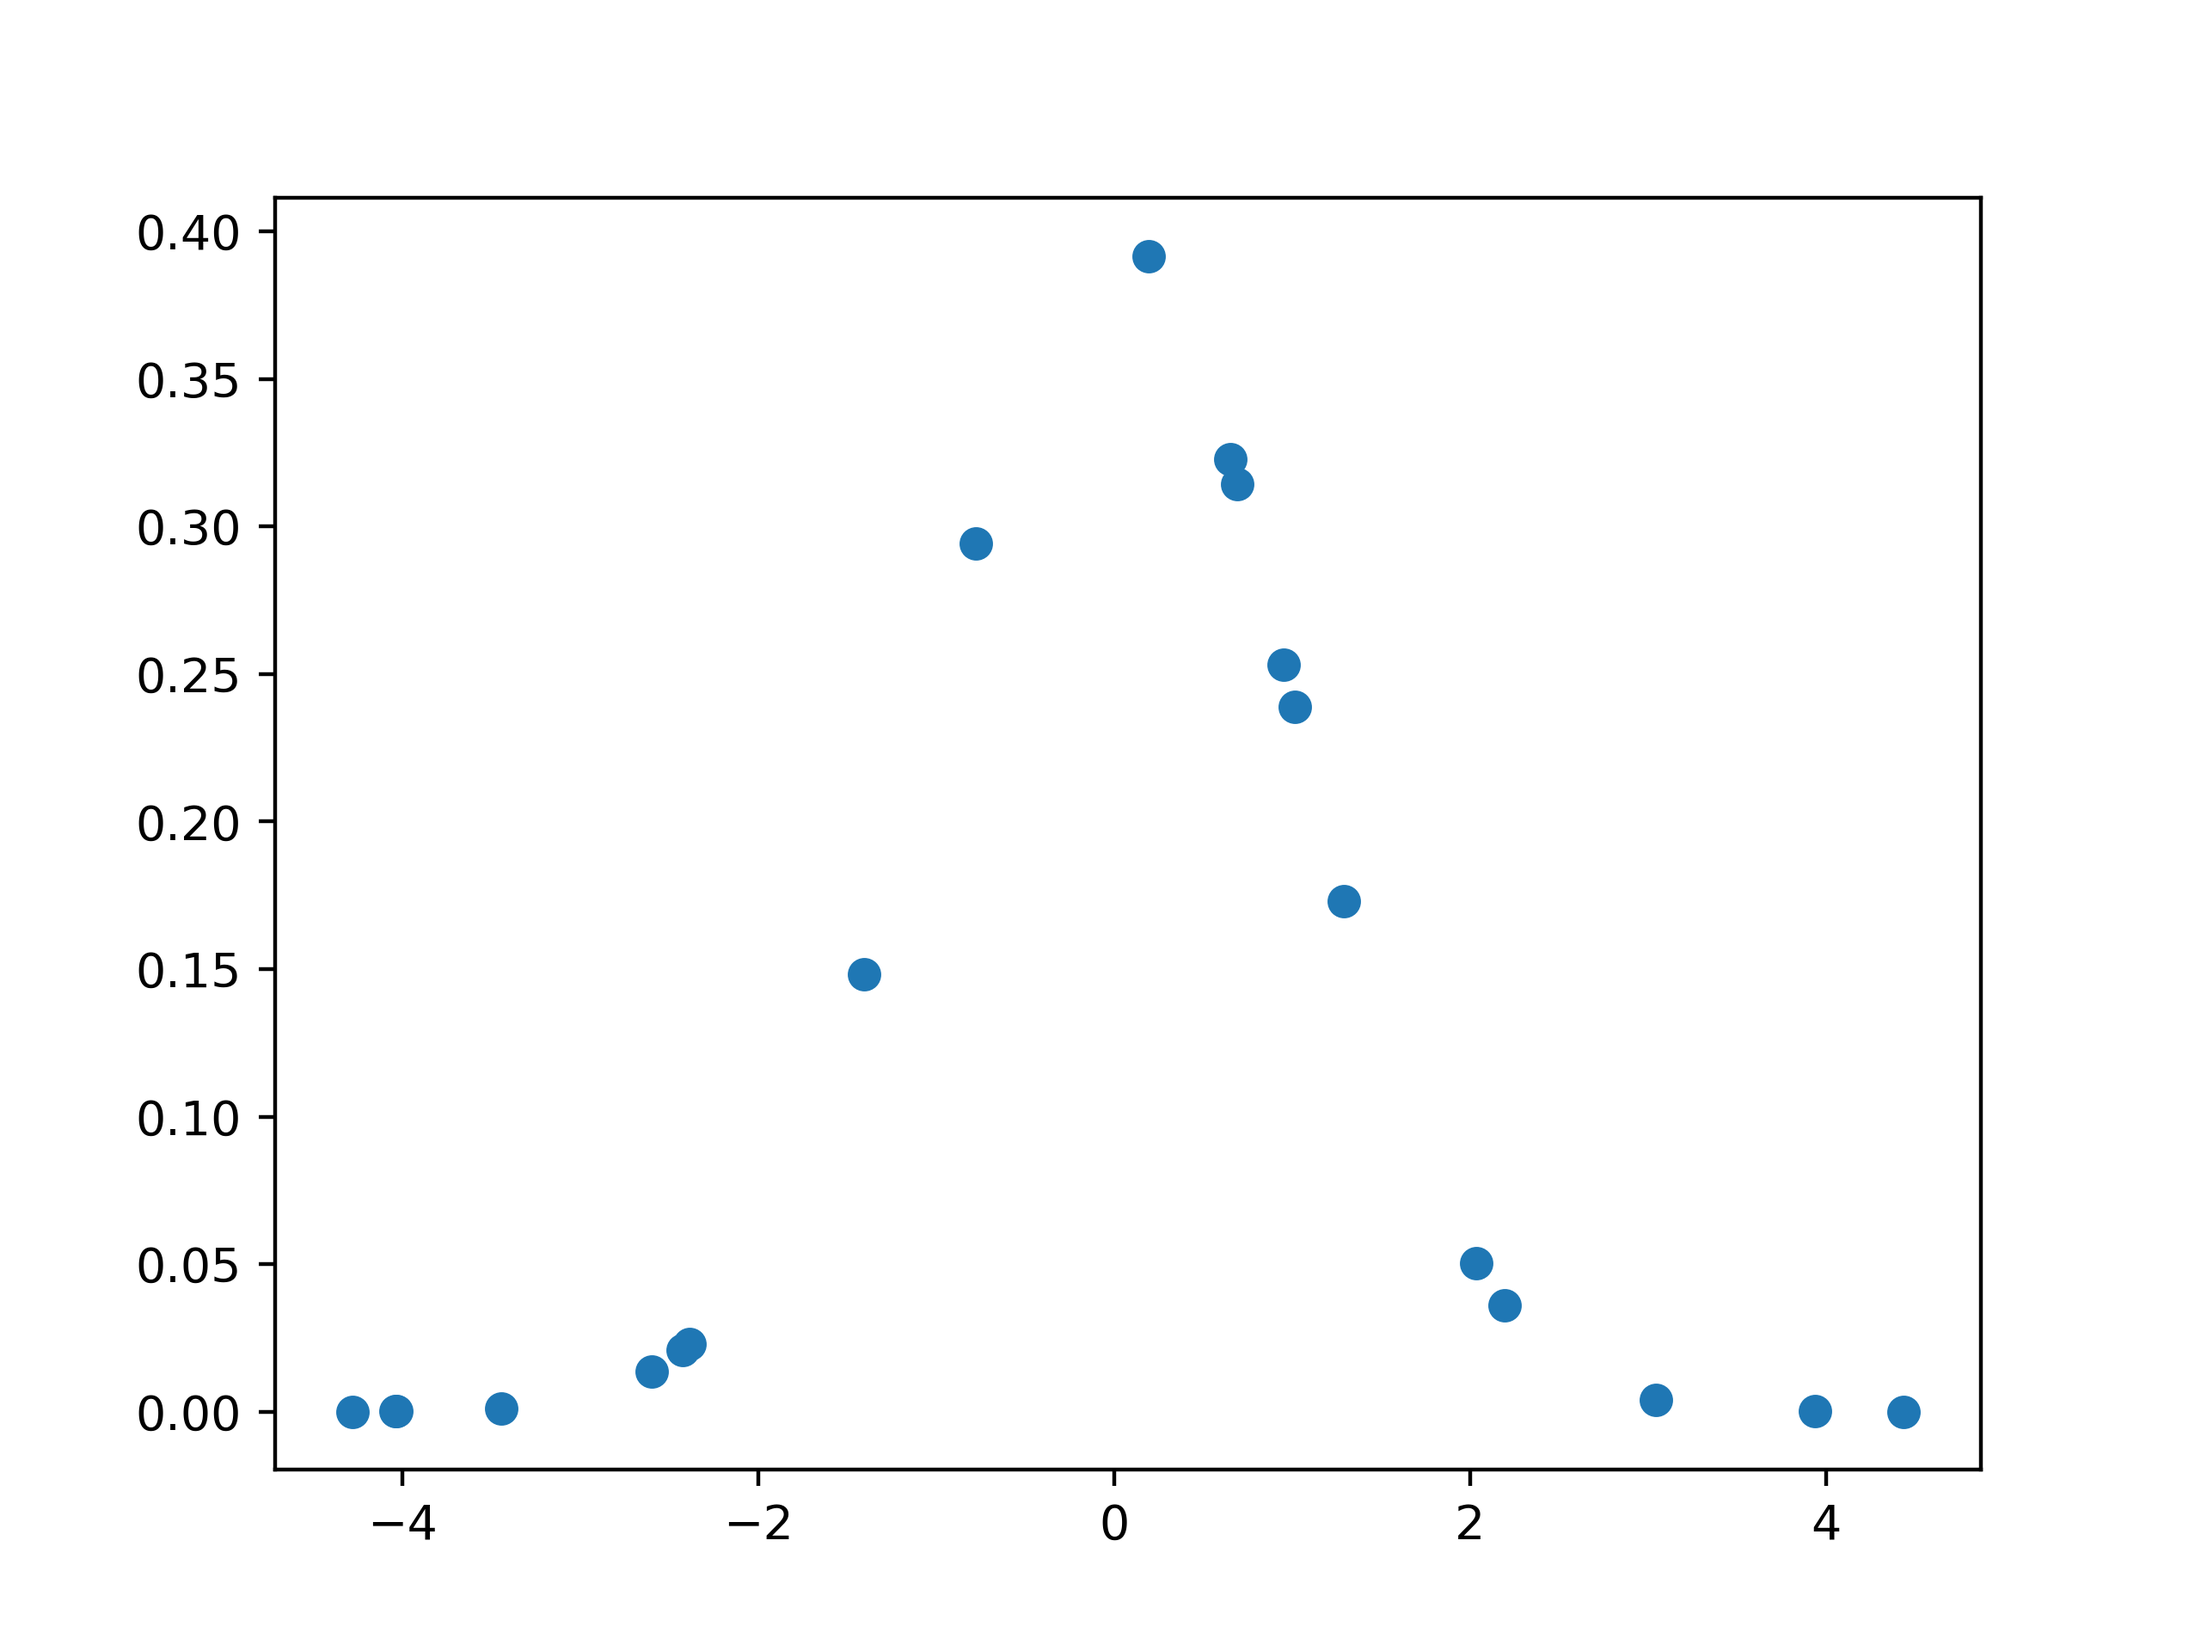
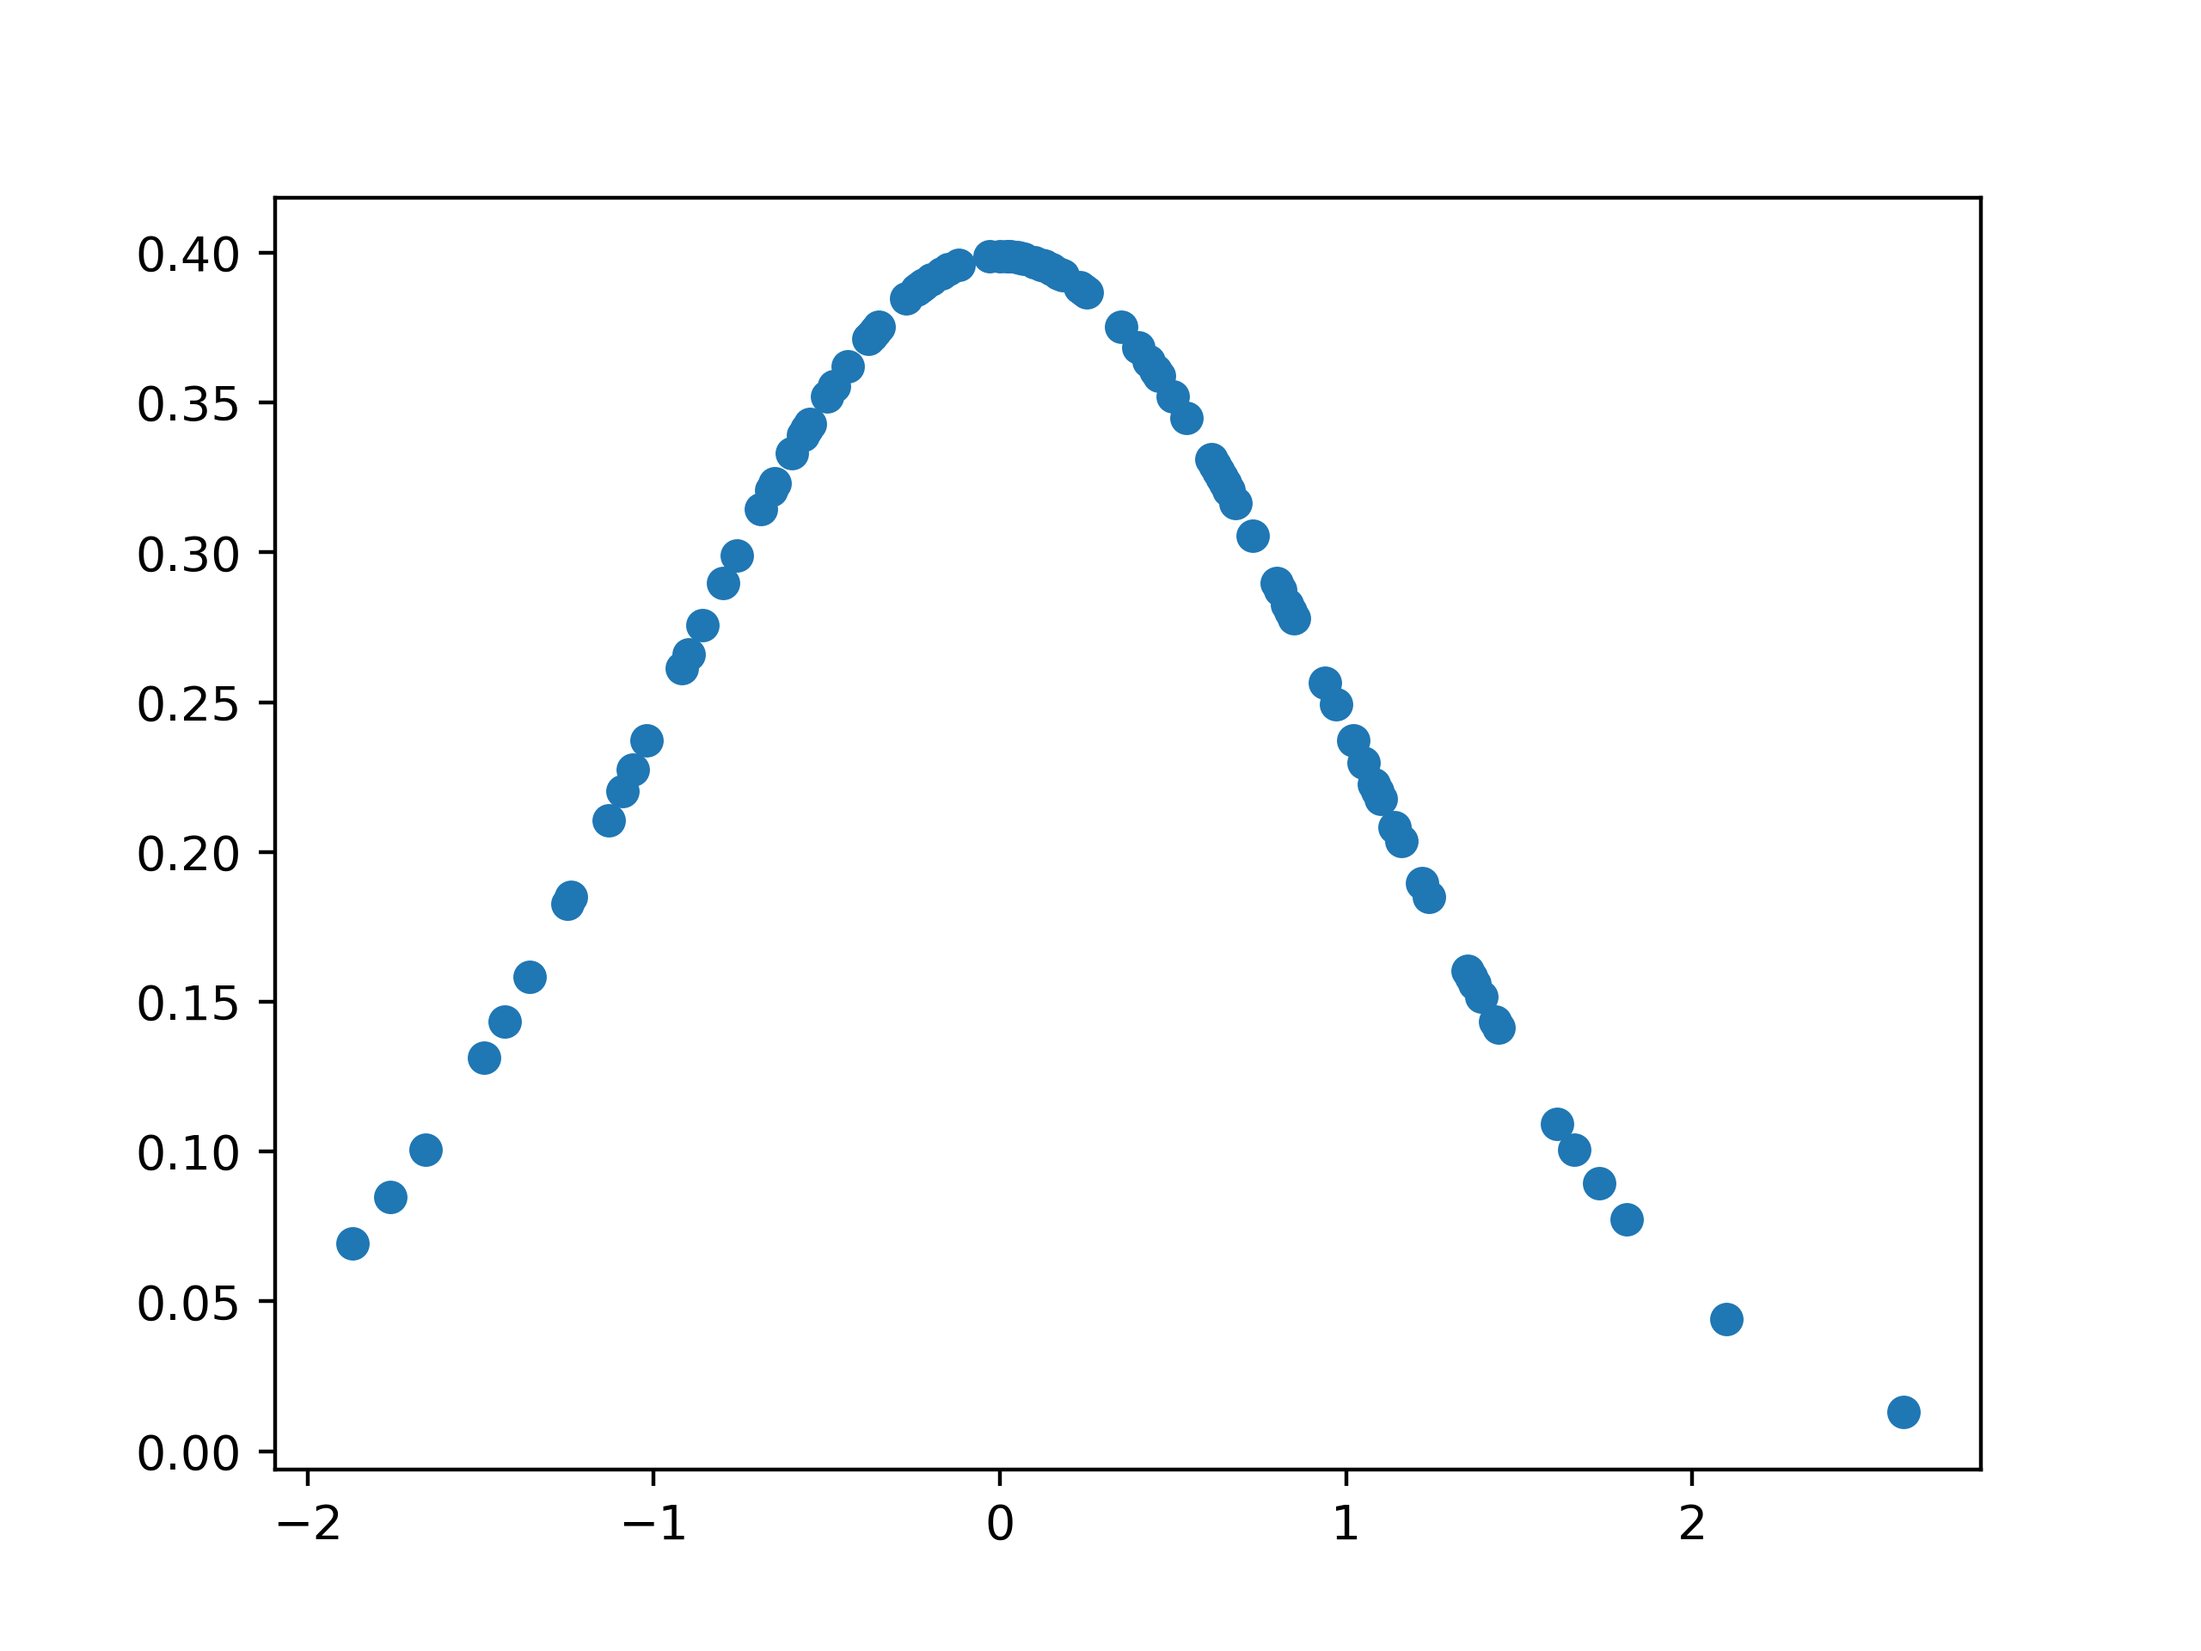
Check in.

diff --git a/exercise.06/main.py b/exercise.06/main.py
@@ -11,10 +11,19 @@ def normal_distribution(x: float, mean: float, variance: float) -> float:
     return pi_part * math.exp(exponent)
 
 
-x_points = [random.uniform(-5, 5) for x in range(20)]
-x_points.sort()
+x_points = []
+y_points = []
 
-y_points = [normal_distribution(x, 0, 1) for x in x_points]
+for x in np.arange(-10, 10, 0.01):
+    prop = normal_distribution(x, 0, 1)
+
+    print("x", x)
+    print("prop", prop)
+    # print("random", random.uniform(0, 0.4))
+
+    if random.random() < prop:
+        x_points.append(x)
+        y_points.append(prop)
 
 plt.figure(0)
 # plt.plot(x_points, y_points)
